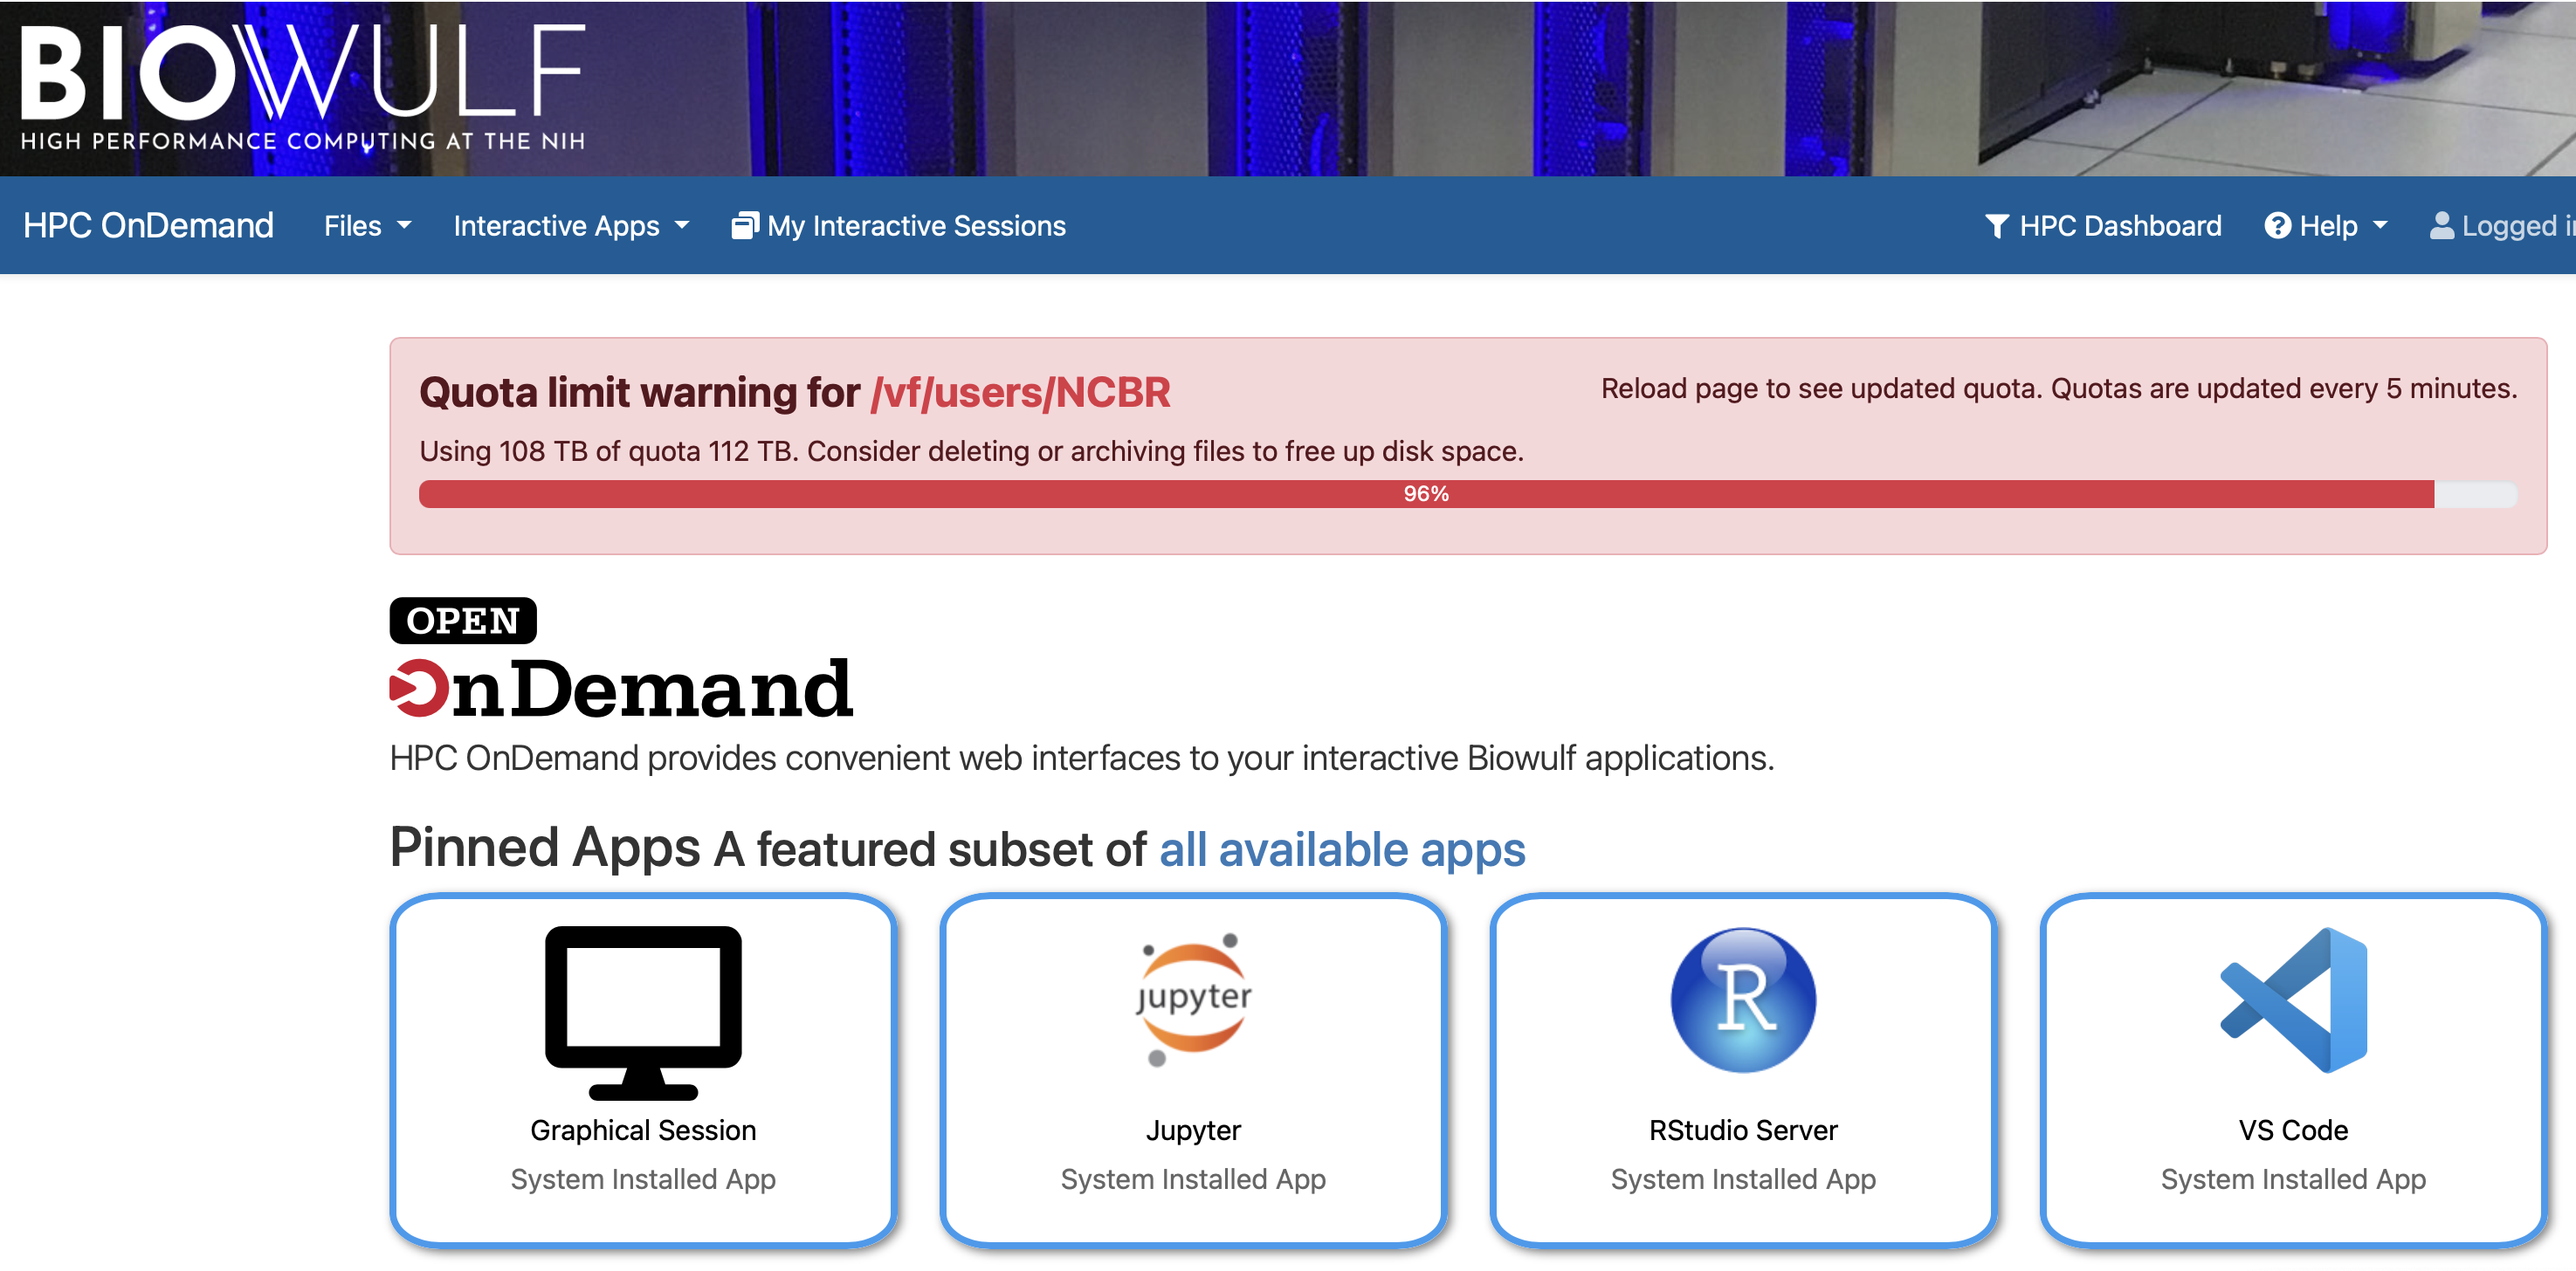
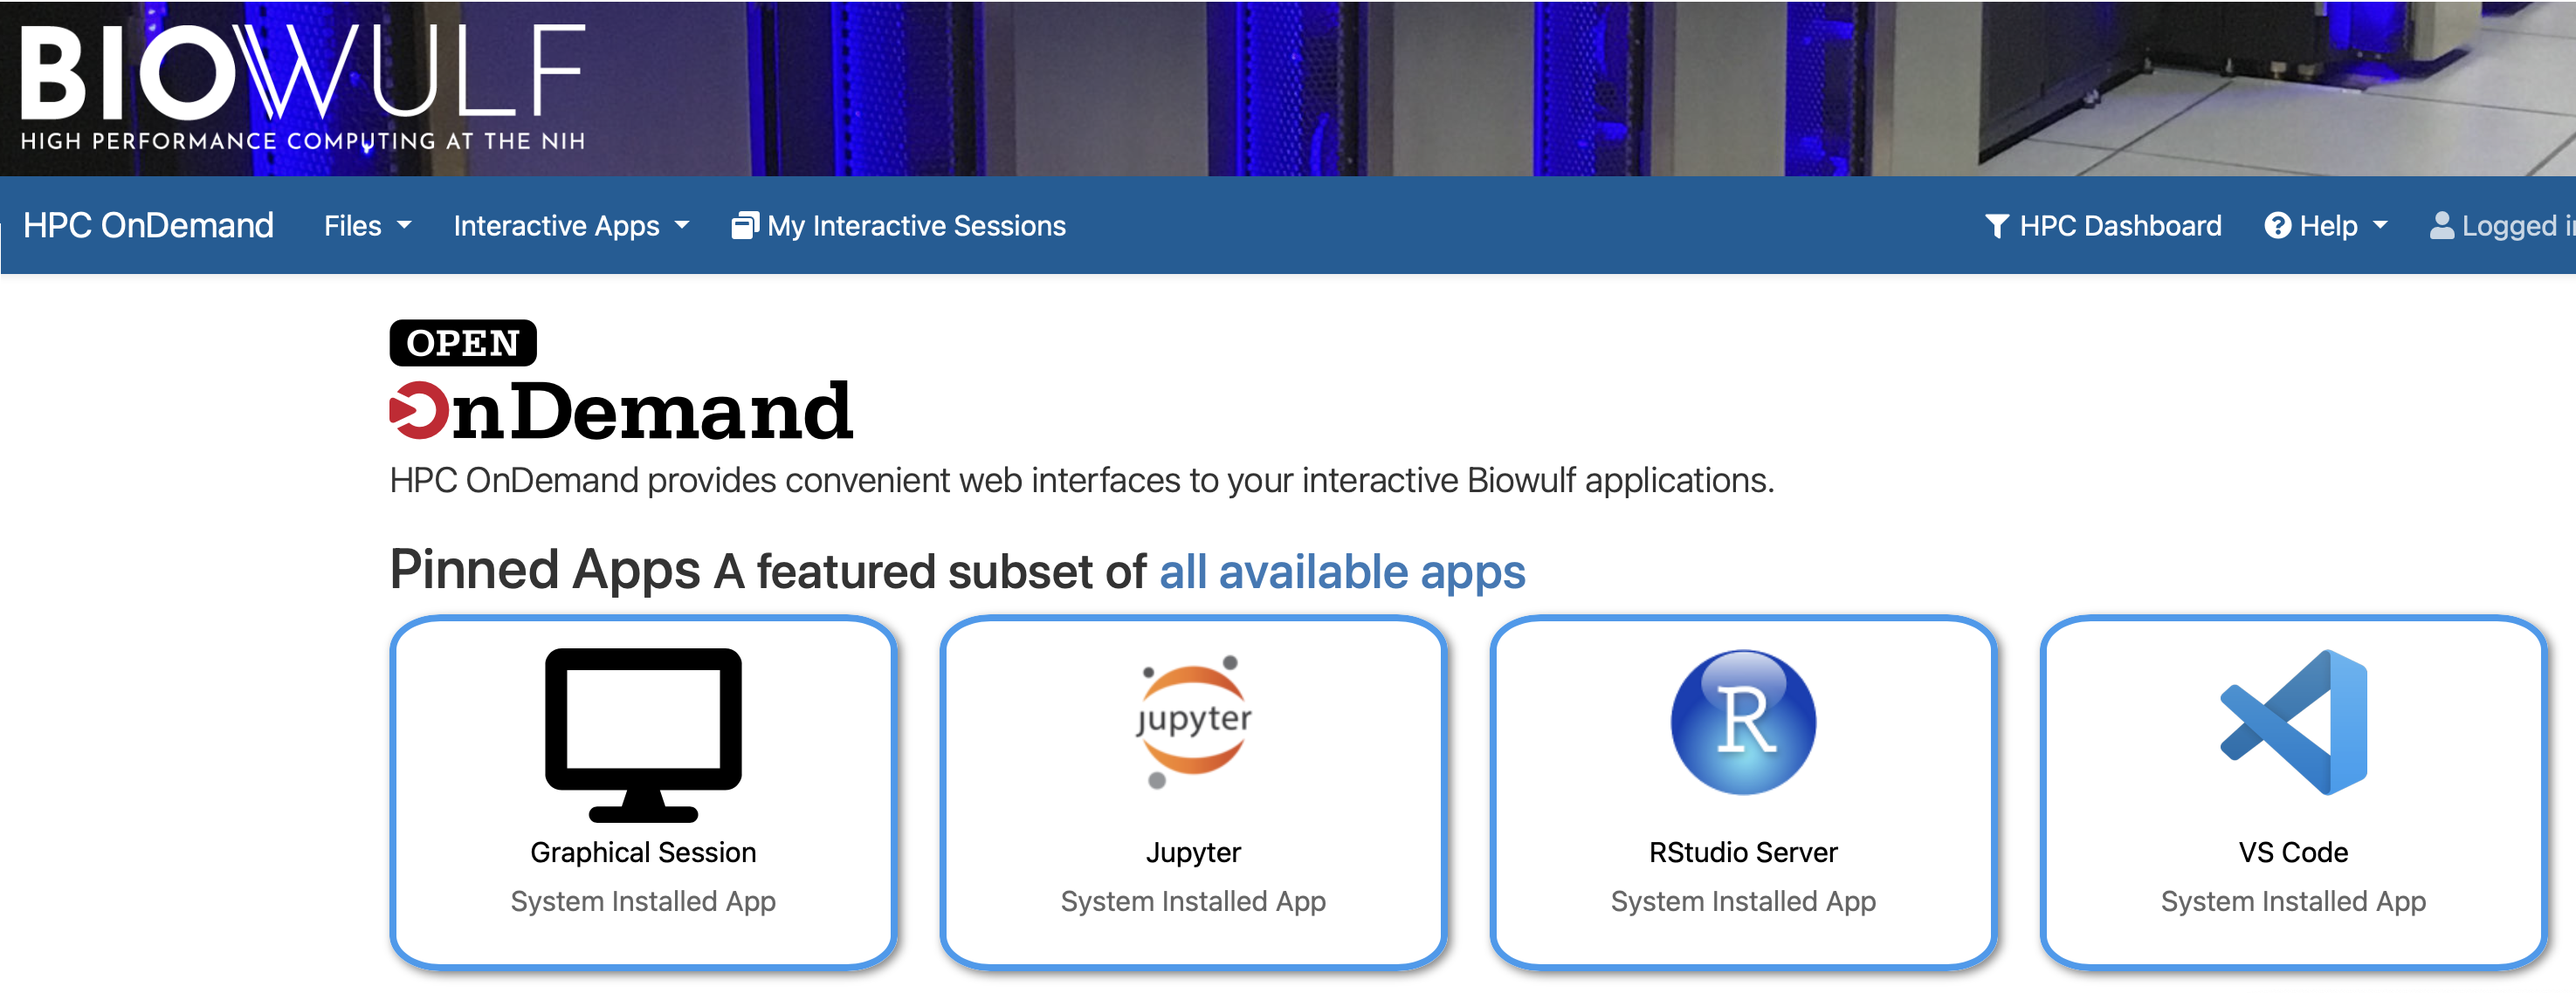
Shinycell clean up (#33)
* fix: fix screen cap naming

* fix: check orig.ident and sample preflight

* fix: output seurat inspector to file in working directory

* fix: a comma

* fix: screenshots on PI page

* fix: move shiny docker image to containers.json

* chore: rename docs page

* fix: rename PI shinycell page label

* fix: reorganize docs pages

* fix: remove trace

---------

diff --git a/docs/usage/shinycell_general.md b/docs/usage/shinycell_general.md
@@ -1,0 +1,32 @@
+# ShinyCell2
+
+## About
+
+**ShinyCell2** is an interactive web application for exploring single-cell analysis results. It lets you browse clusters, view marker genes, generate plots, and inspect metadata without writing any code.
+
+Within `cell-seek`, a ShinyCell2 app is built from a Seurat RDS object using the <code>cell-seek <b>shinycell</b></code> sub command. With minimal configuration, it validates your inputs, creates the required configuration files, and writes the code needed to deploy an interactive single-cell web app.
+
+You can find more information about ShinyCell2 at its [GitHub repository](https://github.com/the-ouyang-lab/ShinyCell2) and the OpenOmics fork of ShinyCell2 [here](https://github.com/OpenOmics/ShinyCell2).
+
+## Who this is for
+
+- **Building an app?** See the [<code>cell-seek <b>shinycell</b></code> command reference](shinycell_command.md) for the full list of arguments, examples, and the marker file format.
+- **Exploring results someone shared with you?** See the [step-by-step guide for PIs and stakeholders](shinycell/PIs.md) for launching a Shiny App on the NIH Biowulf HPC via HPC OnDemand — no command-line experience required.
+
+## What you need
+
+In its most basic form, building an app requires only *3 inputs*:
+
+- A Seurat RDS object file (with a set of valid cluster identity labels).
+- A project title.
+- An output directory to write the shiny application files.
+
+You can optionally provide a TSV file with marker genes to add a DEG page to the application.
+
+!!! important "Supported Assays"
+    `ShinyCell2` does not support all `Seurat` object assays. **Mileage may vary with the Seurat Object you use.**
+    **_HTO assays_** and **_Azimuth cell.annotation_** `(prediction.score.celltype.l*)` assays will be removed from your object when using the ShinyCell2 pipeline.
+
+    These assay types are unsupported currently by the original ShinyCell2.
+
+    For more information about support for assays and extended format support please consult the original ShinyCell2 repository: https://github.com/the-ouyang-lab/ShinyCell2

diff --git a/docs/usage/shinycell/PIs.md b/docs/usage/shinycell/PIs.md
@@ -14,7 +14,7 @@ These instructions will guide you through launching a **Shiny App** on the NIH B
 
 Open your web browser and go to **https://hpcondemand.nih.gov**. When prompted, authenticate using your **NIH PIV card and PIN**. You will land on the HPC OnDemand home page.
 
-![HPC OnDemand home page after login](screenshots/step1.png)
+![HPC OnDemand home page after login](../screenshots/step1.png)
 
 ---
 
@@ -22,7 +22,7 @@ Open your web browser and go to **https://hpcondemand.nih.gov**. When prompted, 
 
 From the home page, click **"Interactive Apps"** in the top navigation bar and select **"All Apps"**, or click the **"all available apps"** link on the home page. A paginated list of all available applications will appear.
 
-![All Apps list — Page 1](screenshots/step2.png)
+![All Apps list — Page 1](../screenshots/step2.png)
 
 ---
 
@@ -30,7 +30,7 @@ From the home page, click **"Interactive Apps"** in the top navigation bar and s
 
 The Shiny App may not appear on the first page. Click **"2"** or **"Next"** at the bottom-right corner of the app list to go to page 2. Locate and click on **"Shiny App"**.
 
-![All Apps list — Page 2, Shiny App visible](screenshots/step5.png)
+![All Apps list — Page 2, Shiny App visible](../screenshots/step5.png)
 
 ---
 
@@ -59,7 +59,7 @@ You can also use the **"Select Path"** button to browse the file system manually
 
 Once all fields are filled in, click the large **"Launch"** button at the bottom of the form.
 
-![Shiny App configuration form](screenshots/step4.png)
+![Shiny App configuration form](../screenshots/step4.png)
 
 ---
 
@@ -73,7 +73,7 @@ After clicking Launch, you will be redirected to the **My Interactive Sessions**
 
 Once the session is running, a blue **"Connect to Shiny"** button will appear on the session card. Click it to open the interactive app in a new browser tab.
 
-![My Interactive Sessions — running Shiny App with Connect to Shiny button](screenshots/step3.png)
+![My Interactive Sessions — running Shiny App with Connect to Shiny button](../screenshots/step3.png)
 
 ---
 

diff --git a/docs/index.md b/docs/index.md
@@ -40,7 +40,7 @@ The **`./cell-seek`** pipeline is composed several inter-related sub commands to
  * [<code>cell-seek <b>run</b></code>](usage/run.md): Run the cell-seek pipeline with your input files.
  * [<code>cell-seek <b>genome</b></code>](usage/genome.md): Create a custom genome reference file that can be used with the pipeline.
  * [<code>cell-seek <b>unlock</b></code>](usage/unlock.md): Unlocks a previous runs output directory.
- * [<code>cell-seek <b>shinycell</b></code>](usage/shinycell.md): Build a ShinyCell2 application from a Seurat RDS object.
+ * [<code>cell-seek <b>shinycell</b></code>](usage/shinycell_command.md): Build a ShinyCell2 application from a Seurat RDS object.
  * [<code>cell-seek <b>cache</b></code>](usage/cache.md): Cache remote resources locally, coming soon!
 
 **cell-seek** is a comprehensive set of pipelines to perform the initial processing of different single cell technologies. It relies on technologies like [Singularity<sup>1</sup>](https://singularity.lbl.gov/) to maintain the highest-level of reproducibility. The pipeline consists of a series of data processing and quality-control steps orchestrated by [Snakemake<sup>2</sup>](https://snakemake.readthedocs.io/en/stable/), a flexible and scalable workflow management system, to submit jobs to a cluster.

diff --git a/docs/usage/run.md b/docs/usage/run.md
@@ -45,5 +45,6 @@ The following is an overview of the available pipelines. A detailed breakdown of
  * [<code><b>MULTI</b></code>: Run the cell-seek pipeline using Multi. This can handle a range of data combinations. Use this whenever cell multiplexing is performed using CellRanger (HTO, OCM, Flex), or GEX with VDJ data.](multi.md)
  * [<code><b>ATAC</b></code>: Run the cell-seek pipeline for ATAC only data.](atac.md)
  * [<code><b>Multiome</b></code>: Run the cell-seek pipeline for multiomic (ATAC + GEX) data.](multiome.md)
+ * [<code><b>shinycell</b></code>: Build an interactive ShinyCell2 application from a Seurat RDS object.](shinycell_command.md)
 
 
